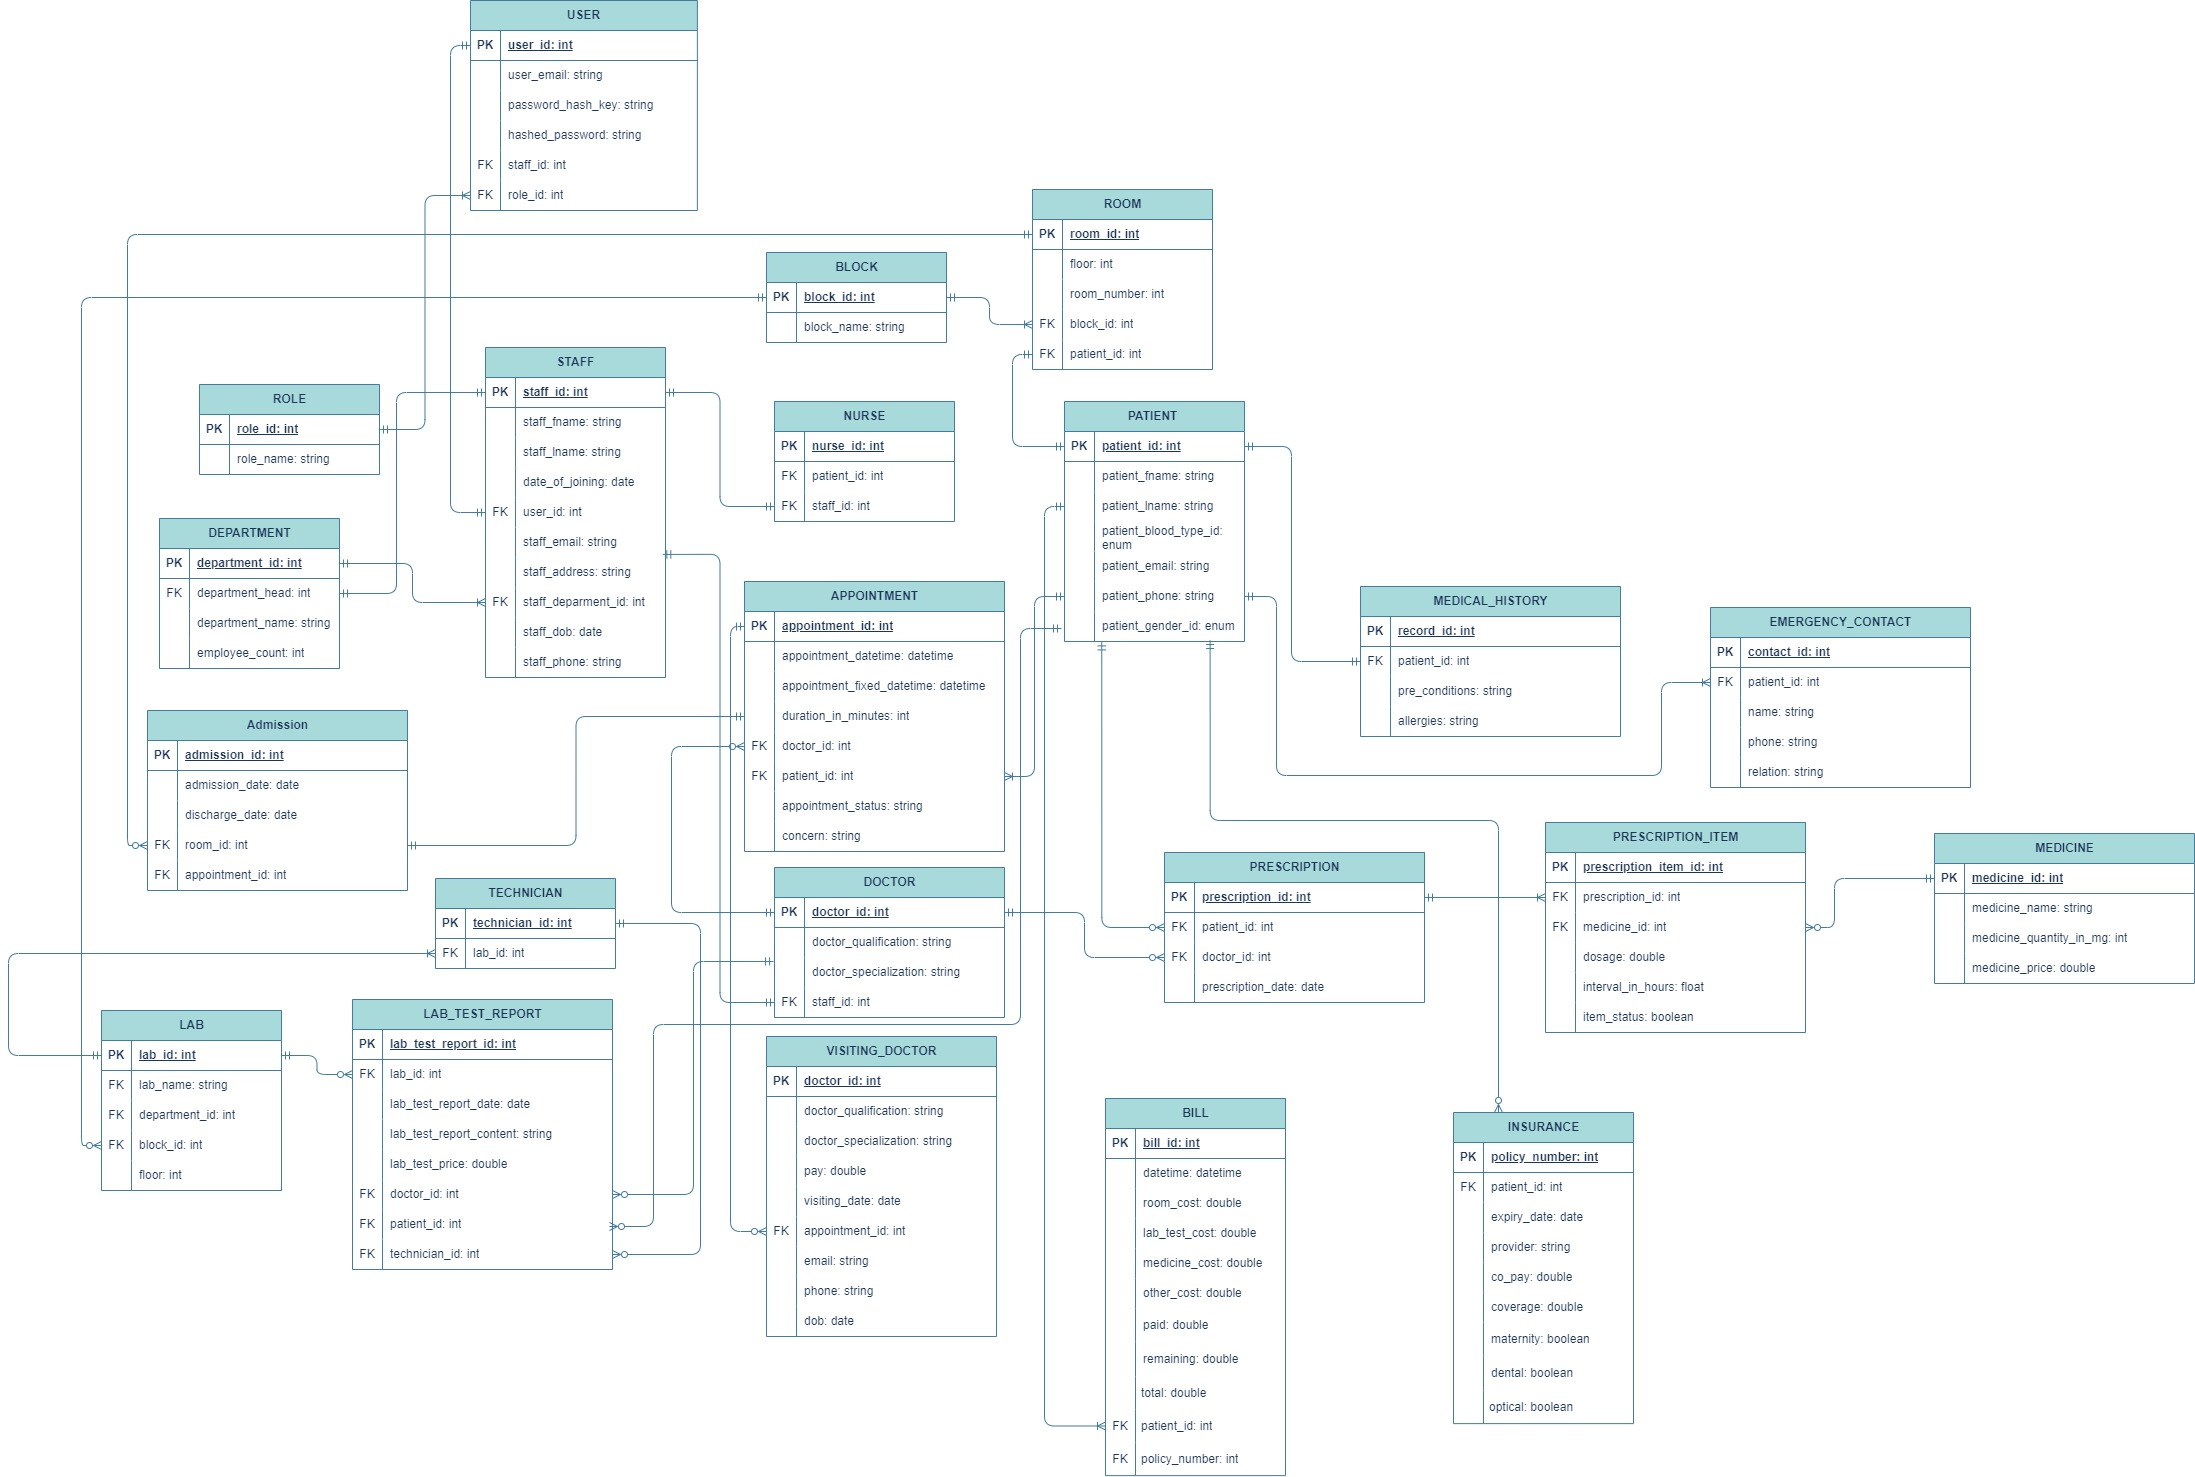
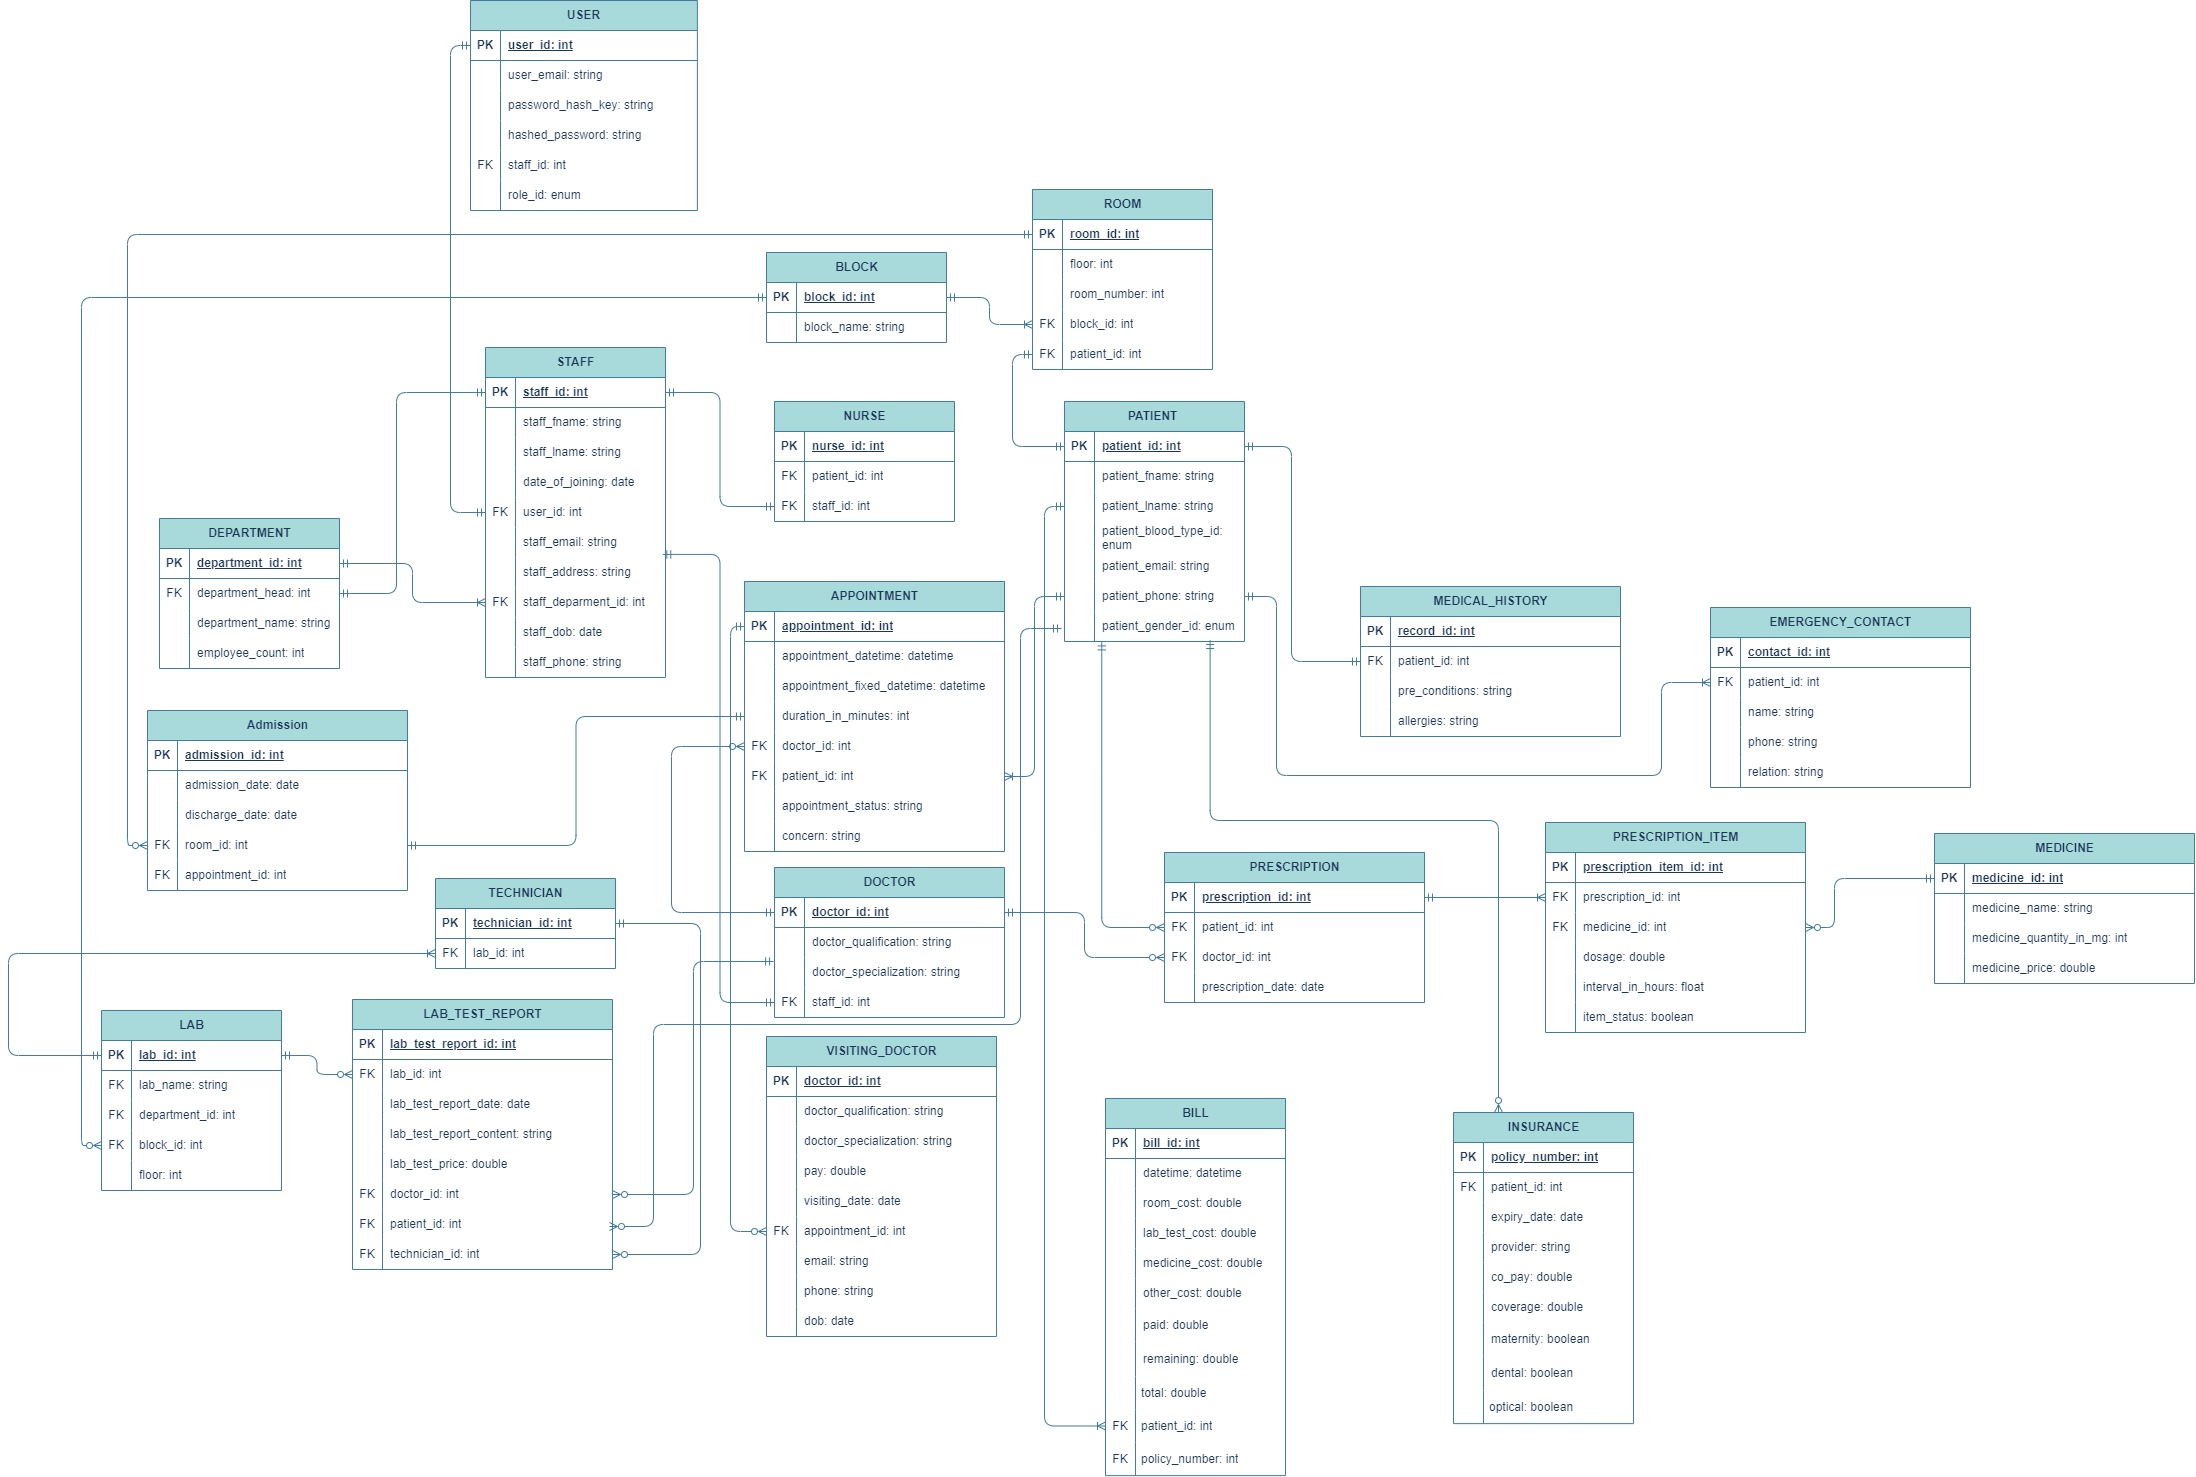
removed role model

diff --git a/HospitalManagementSystemAPI/Services/AdminService.cs b/HospitalManagementSystemAPI/Services/AdminService.cs
@@ -1,4 +1,5 @@
 using HospitalManagementSystemAPI.DTOs.Staff;
+using HospitalManagementSystemAPI.Enums;
 using HospitalManagementSystemAPI.Exceptions.Generic;
 using HospitalManagementSystemAPI.Exceptions.Role;
 using HospitalManagementSystemAPI.Exceptions.Staff;
@@ -13,45 +14,15 @@ namespace HospitalManagementSystemAPI.Services
 {
     public class AdminService : IAdminService
     {
-        private readonly IRepository<Role> _roleRepository;
         private readonly IRepository<Staff> _staffRepository;
         private readonly IRepository<User> _userRepository;
         private readonly IAuthenticationService _authenticationService;
 
-        public AdminService(IRepository<Role> roleRepository, IRepository<Staff> staffRepository, IAuthenticationService authenticationService, IRepository<User> userRepository)
+        public AdminService(IRepository<Staff> staffRepository, IAuthenticationService authenticationService, IRepository<User> userRepository)
         {
-            _roleRepository = roleRepository;
             _staffRepository = staffRepository;
             _authenticationService = authenticationService;
             _userRepository = userRepository;
-        }
-
-        private async Task<Role> SaveRole(string roleName)
-        {
-            Role newRole = new Role(roleName.ToLower());
-            await _roleRepository.Create(newRole);
-            return newRole;
-        }
-
-        public async Task<Role> AddNewRole(string roleName)
-        {
-            // validation
-            if (roleName == string.Empty) throw new InvalidRoleNameException();
-
-            try
-            {
-                // check duplication
-                var roles = await _roleRepository.GetAll();
-
-                if (roles.Any(r => r.RoleName == roleName.ToLower())) throw new RoleDuplicationException(roleName);
-
-                return await SaveRole(roleName);
-            }
-            catch (NoEntitiesAvailableException)
-            {
-                // if no roles present
-                return await SaveRole(roleName);
-            }
         }
 
         private Staff MapStaff(NewStaffDTO newStaffDTO)
@@ -106,36 +77,26 @@ namespace HospitalManagementSystemAPI.Services
             // check email and phone number duplication
             await CheckEmailPhoneDuplication(newStaffDTO);
 
+            // save staff
+            Staff staff = await _staffRepository.Create(MapStaff(newStaffDTO));
+
+            // hash password
+            HMACSHA512 hMACSHA512 = new HMACSHA512();
+            byte[] passwordHashKey = _authenticationService.GetHashKey(hMACSHA512);
+            byte[] hashedPassword = _authenticationService.GetHashedPassword(hMACSHA512, newStaffDTO.PlainTextPassword);
+
             try
             {
-                // get role
-                Role role = await _roleRepository.Get(newStaffDTO.RoleId);
+                // save user
+                User user = await _userRepository.Create(MapUser(staff, newStaffDTO.Role, passwordHashKey, hashedPassword));
 
-                // save staff
-                Staff staff = await _staffRepository.Create(MapStaff(newStaffDTO));
-
-                // hash password
-                HMACSHA512 hMACSHA512 = new HMACSHA512();
-                byte[] passwordHashKey = _authenticationService.GetHashKey(hMACSHA512);
-                byte[] hashedPassword = _authenticationService.GetHashedPassword(hMACSHA512, newStaffDTO.PlainTextPassword);
-
-                try
-                {
-                    // save user
-                    User user = await _userRepository.Create(MapUser(staff, role, passwordHashKey, hashedPassword));
-
-                    return staff;
-                }
-                catch (EntityCreationException)
-                {
-                    // delete the saved staff
-                    await _staffRepository.Delete(staff.Id);
-                    throw;
-                }
+                return staff;
             }
-            catch (EntityNotFoundException)
+            catch (EntityCreationException)
             {
-                throw new InvalidStaffInputException("The selected role is invalid.");
+                // delete the saved staff
+                await _staffRepository.Delete(staff.Id);
+                throw;
             }
         }
     }

diff --git a/HospitalManagementSystemAPI/Migrations/20240726085443_role-removed.cs b/HospitalManagementSystemAPI/Migrations/20240726085443_role-removed.cs
@@ -1,0 +1,62 @@
+using Microsoft.EntityFrameworkCore.Migrations;
+
+#nullable disable
+
+namespace HospitalManagementSystemAPI.Migrations
+{
+    public partial class roleremoved : Migration
+    {
+        protected override void Up(MigrationBuilder migrationBuilder)
+        {
+            migrationBuilder.DropForeignKey(
+                name: "FK_Users_Roles_RoleId",
+                table: "Users");
+
+            migrationBuilder.DropTable(
+                name: "Roles");
+
+            migrationBuilder.DropIndex(
+                name: "IX_Users_RoleId",
+                table: "Users");
+
+            migrationBuilder.RenameColumn(
+                name: "RoleId",
+                table: "Users",
+                newName: "Role");
+        }
+
+        protected override void Down(MigrationBuilder migrationBuilder)
+        {
+            migrationBuilder.RenameColumn(
+                name: "Role",
+                table: "Users",
+                newName: "RoleId");
+
+            migrationBuilder.CreateTable(
+                name: "Roles",
+                columns: table => new
+                {
+                    Id = table.Column<int>(type: "int", nullable: false)
+                        .Annotation("SqlServer:Identity", "1, 1"),
+                    RoleName = table.Column<string>(type: "nvarchar(max)", nullable: false)
+                },
+                constraints: table =>
+                {
+                    table.PrimaryKey("PK_Roles", x => x.Id);
+                });
+
+            migrationBuilder.CreateIndex(
+                name: "IX_Users_RoleId",
+                table: "Users",
+                column: "RoleId");
+
+            migrationBuilder.AddForeignKey(
+                name: "FK_Users_Roles_RoleId",
+                table: "Users",
+                column: "RoleId",
+                principalTable: "Roles",
+                principalColumn: "Id",
+                onDelete: ReferentialAction.Cascade);
+        }
+    }
+}

diff --git a/HospitalManagementSystemAPI/Controllers/AdminController.cs b/HospitalManagementSystemAPI/Controllers/AdminController.cs
@@ -21,27 +21,6 @@ namespace HospitalManagementSystemAPI.Controllers
             _adminService = adminService;
         }
 
-        [HttpPost("/role")]
-        public async Task<IActionResult> AddNewRole([FromBody] string roleName)
-        {
-            try
-            {
-                Role role = await _adminService.AddNewRole(roleName);
-                return Ok(new SuccessResponse("Role Added"));
-            } catch (InvalidRoleNameException ex)
-            {
-                return BadRequest(new ErrorResponse(ex.Message, StatusCodes.Status400BadRequest));
-            }
-            catch (EntityCreationException ex)
-            {
-                return StatusCode(StatusCodes.Status500InternalServerError, new ErrorResponse(ex.Message, StatusCodes.Status500InternalServerError));
-            }
-            catch (RoleDuplicationException ex)
-            {
-                return Conflict(new ErrorResponse(ex.Message, StatusCodes.Status409Conflict));
-            }
-        }
-
         [HttpPost("/staff")]
         public async Task<IActionResult> AddStaff(NewStaffDTO newStaffDTO)
         {

diff --git a/HospitalManagementSystemAPI/Program.cs b/HospitalManagementSystemAPI/Program.cs
@@ -39,7 +39,6 @@ namespace HospitalManagementSystemAPI
             #endregion
 
             #region repositories
-            builder.Services.AddScoped<IRepository<Role>, RoleRepository>();
             builder.Services.AddScoped<IRepository<Staff>, StaffRepository>();
             builder.Services.AddScoped<IRepository<User>, UserRepository>();
             builder.Services.AddScoped<IRepository<Patient>, PatientRepository>();
@@ -50,7 +49,6 @@ namespace HospitalManagementSystemAPI
             builder.Services.AddScoped<IAdminService, AdminService>();
             builder.Services.AddScoped<IAuthenticationService, AuthenticationService>();
             builder.Services.AddScoped<ITokenService, TokenService>();
-            builder.Services.AddScoped<IRoleService, RoleService>();
             builder.Services.AddScoped<IPatientService, PatientService>();
             #endregion
 

diff --git a/HospitalManagementSystemAPI/Migrations/20240726085443_role-removed.Designer.cs b/HospitalManagementSystemAPI/Migrations/20240726085443_role-removed.Designer.cs
@@ -4,6 +4,7 @@ using HospitalManagementSystemAPI;
 using Microsoft.EntityFrameworkCore;
 using Microsoft.EntityFrameworkCore.Infrastructure;
 using Microsoft.EntityFrameworkCore.Metadata;
+using Microsoft.EntityFrameworkCore.Migrations;
 using Microsoft.EntityFrameworkCore.Storage.ValueConversion;
 
 #nullable disable
@@ -11,9 +12,10 @@ using Microsoft.EntityFrameworkCore.Storage.ValueConversion;
 namespace HospitalManagementSystemAPI.Migrations
 {
     [DbContext(typeof(HospitalManagementSystemContext))]
-    partial class HospitalManagementSystemContextModelSnapshot : ModelSnapshot
+    [Migration("20240726085443_role-removed")]
+    partial class roleremoved
     {
-        protected override void BuildModel(ModelBuilder modelBuilder)
+        protected override void BuildTargetModel(ModelBuilder modelBuilder)
         {
 #pragma warning disable 612, 618
             modelBuilder

diff --git a/HospitalManagementSystemAPI/DTOs/Staff/NewStaffDTO.cs b/HospitalManagementSystemAPI/DTOs/Staff/NewStaffDTO.cs
@@ -1,4 +1,5 @@
-using System.ComponentModel.DataAnnotations;
+using HospitalManagementSystemAPI.Enums;
+using System.ComponentModel.DataAnnotations;
 
 namespace HospitalManagementSystemAPI.DTOs.Staff
 {
@@ -13,8 +14,8 @@ namespace HospitalManagementSystemAPI.DTOs.Staff
         public string Phone { get; set; } = string.Empty;
 
         [Required(ErrorMessage = "Role is required.")]
-        [Range(1, 50, ErrorMessage = "Give a valid role.")]
-        public int RoleId { get; set; }
+        [Range(0, 4, ErrorMessage = "Give a valid role.")]
+        public Role Role { get; set; }
 
         [Required(ErrorMessage = "Password is required.")]
         public string PlainTextPassword { get; set; } = string.Empty;

diff --git a/HospitalManagementSystemAPI/Models/User.cs b/HospitalManagementSystemAPI/Models/User.cs
@@ -1,10 +1,12 @@
-namespace HospitalManagementSystemAPI.Models
+using HospitalManagementSystemAPI.Enums;
+
+namespace HospitalManagementSystemAPI.Models
 {
     public class User
     {
         public int Id { get; set; }
         public string Email { get; set; } = string.Empty;
-        public Role Role { get; set; } = new Role();
+        public Role Role { get; set; }
         public Staff Staff { get; set; } = new Staff();
         public byte[] PasswordHashKey { get; set; } = new byte[0];
         public byte[] HashedPassword { get; set; } = new byte[0];

diff --git a/HospitalManagementSystemAPI/HospitalManagementSystemContext.cs b/HospitalManagementSystemAPI/HospitalManagementSystemContext.cs
@@ -7,7 +7,6 @@ namespace HospitalManagementSystemAPI
     {
         public HospitalManagementSystemContext(DbContextOptions dbContextOptions) : base(dbContextOptions) { }
 
-        public DbSet<Role> Roles { get; set; }
         public DbSet<Staff> Staffs { get; set; }
         public DbSet<User> Users { get; set; }
         public DbSet<Patient> Patients { get; set; }

diff --git a/HospitalManagementSystemAPI/Services/Interfaces/IAdminService.cs b/HospitalManagementSystemAPI/Services/Interfaces/IAdminService.cs
@@ -5,8 +5,6 @@ namespace HospitalManagementSystemAPI.Services.Interfaces
 {
     public interface IAdminService
     {
-        Task<Role> AddNewRole(string roleName);
-
         Task<Staff> AddStaff(NewStaffDTO newStaffDTO);
     }
 }

diff --git a/HospitalManagementSystemAPI/Enums/Role.cs b/HospitalManagementSystemAPI/Enums/Role.cs
@@ -1,0 +1,11 @@
+namespace HospitalManagementSystemAPI.Enums
+{
+    public enum Role
+    {
+        Doctor,
+        Nurse,
+        Receptionist,
+        Technician,
+        Admin
+    }
+}
